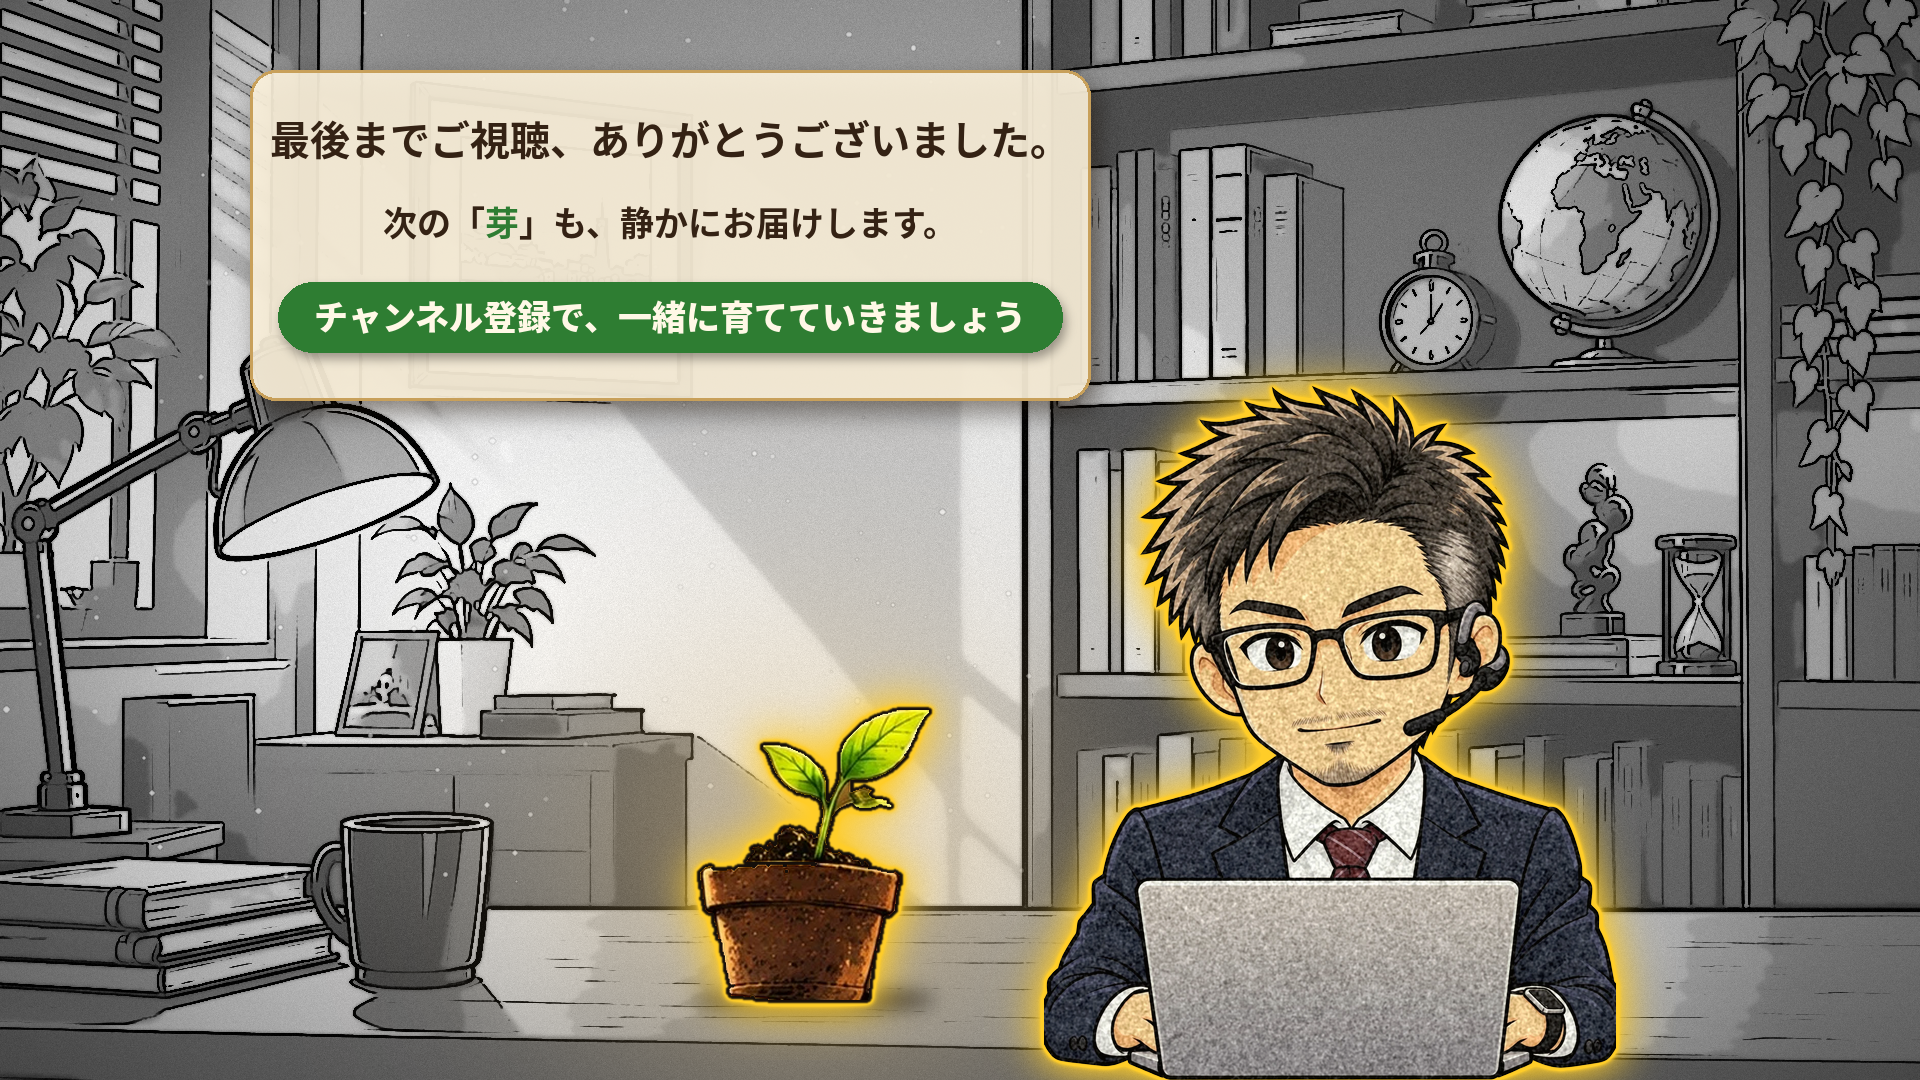
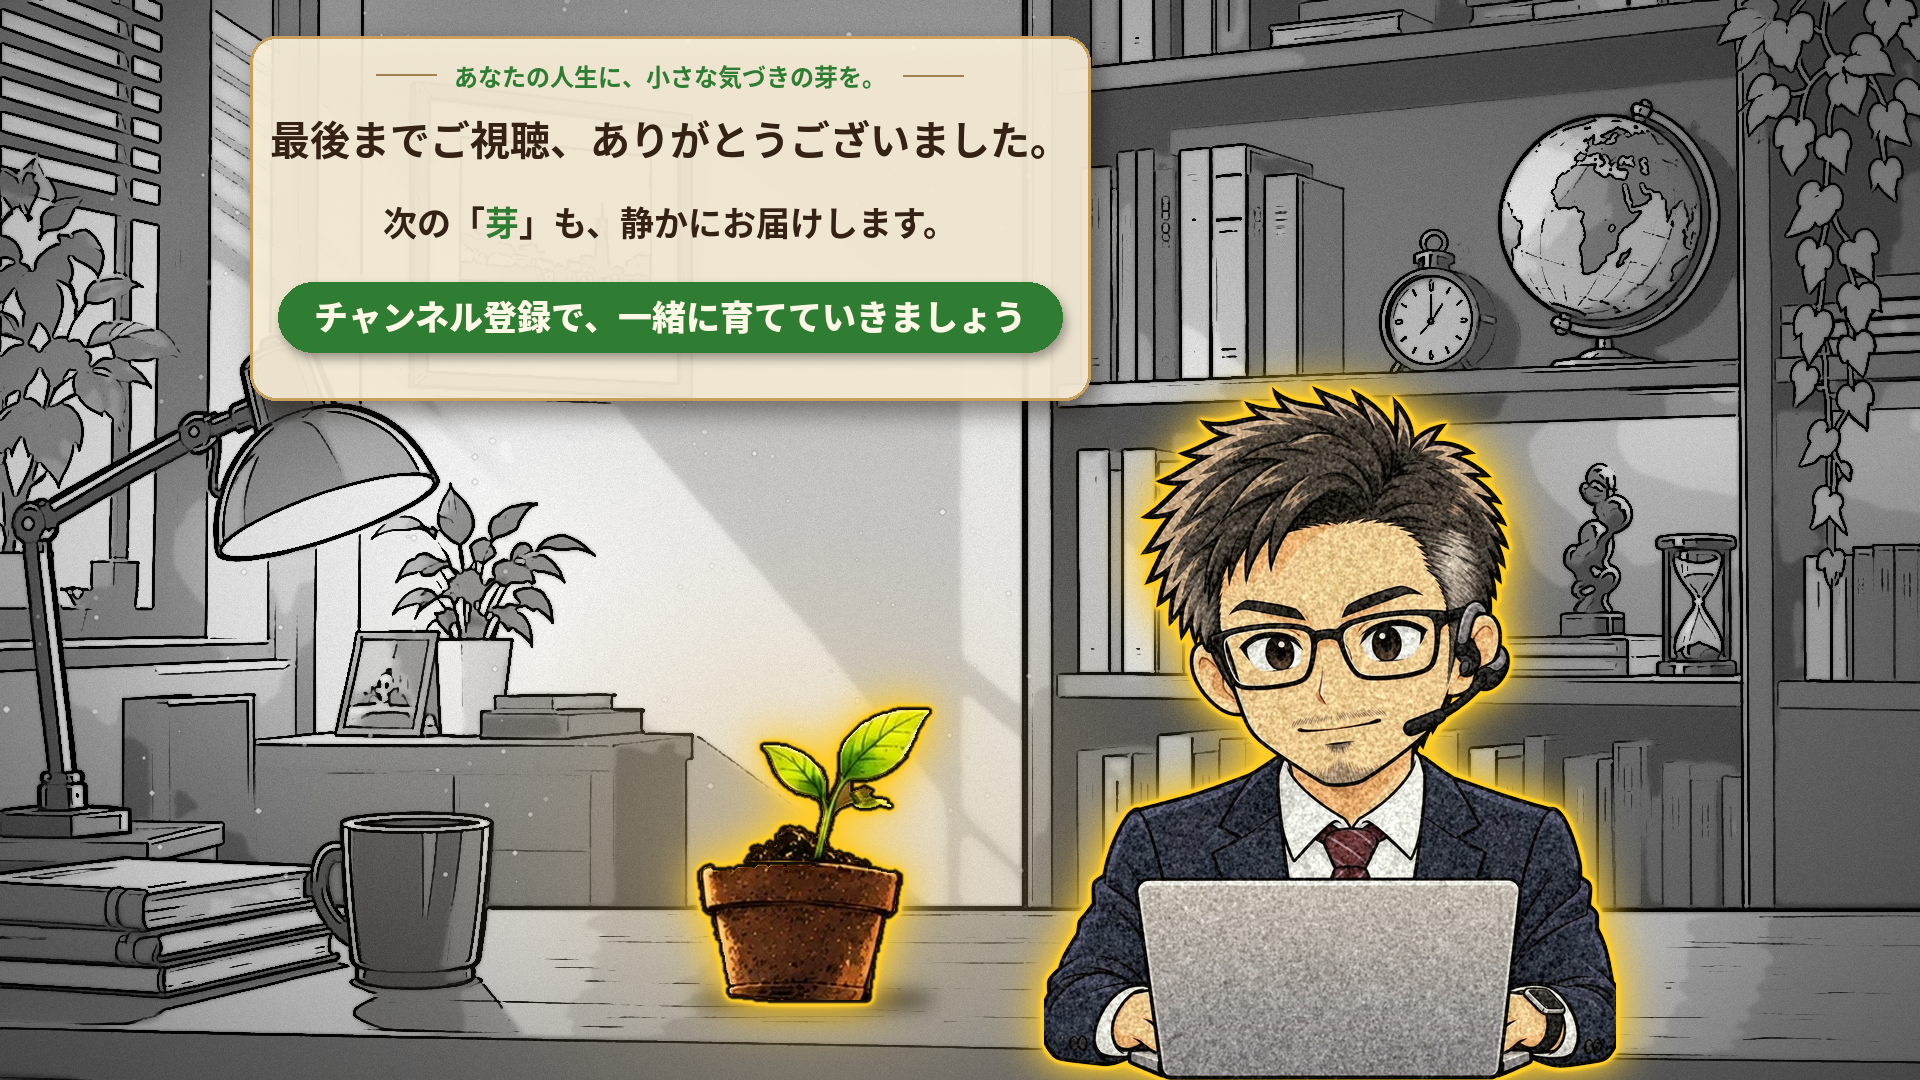
チャンネルテーマを決定し、冒頭テロップとENDに追加
- テーマ：あなたの人生に、小さな気づきの芽を。
- 冒頭テロップ（透過PNG）の生成スクリプトを追加
- ENDのパネル上にテーマを小さく追加

Claude-Session: https://claude.ai/code/session_013q6y1Wbgfz65LuLS3YWM2p

Changed region(s): [[0.125, 0.0306, 0.5938, 0.0917]]

diff --git a/company/design/make_telop.py b/company/design/make_telop.py
@@ -1,0 +1,97 @@
+"""冒頭テロップ（チャンネルのテーマ）生成（ルールは thumbnail-rules.md）
+
+使い方:
+  python3 make_telop.py 出力.png [プレビュー用の背景画像]
+
+出力は透過PNG（1920x1080）。動画編集ソフトで冒頭の映像に重ねる。
+背景画像を渡すと、重ねた見本（出力名_preview.png）も作る。
+"""
+import os
+import sys
+
+import cv2
+import numpy as np
+from PIL import Image, ImageDraw, ImageFilter, ImageFont
+
+D = os.path.dirname(os.path.abspath(__file__))
+FB = os.path.join(D, "assets", "NotoSansCJKjp-Bold.otf")
+W, H = 1920, 1080
+WHITE = (255, 255, 255)
+YELLOW = (255, 212, 0)
+GLOW = (255, 205, 40)
+
+# テーマ（「気づきの芽」を黄色で強調）
+PARTS = [("あなたの人生に、小さな", WHITE), ("気づきの芽", YELLOW), ("を。", WHITE)]
+
+
+def sprout_icon(h):
+    """芽の鉢から葉っぱ部分だけ切り出して、黄色の発光を付ける"""
+    pl = Image.open(os.path.join(D, "assets", "me_plant.png"))
+    pl = pl.crop(pl.getbbox())
+    leaf = pl.crop((0, 0, pl.width, int(pl.height * 0.44)))  # 葉っぱと茎だけ
+    arr = np.array(leaf)
+    y0 = int(arr.shape[0] * 0.7)  # 下のほうは緑っぽいところ（茎）だけ残して土を消す
+    low = arr[y0:]
+    low[..., 3] = np.where(low[..., 1] > low[..., 0], low[..., 3], 0)
+    leaf = Image.fromarray(arr)
+    leaf = leaf.crop(leaf.getbbox())
+    leaf = leaf.resize((round(leaf.width * h / leaf.height), h), Image.LANCZOS)
+    p = 40
+    big = Image.new("RGBA", (leaf.width + 2 * p, leaf.height + 2 * p), (0, 0, 0, 0))
+    big.paste(leaf, (p, p), leaf)
+    a = (np.array(big.split()[3]) > 128).astype(np.float32) * 255
+    ell = lambda n: cv2.getStructuringElement(cv2.MORPH_ELLIPSE, (n, n))
+    g = cv2.GaussianBlur(cv2.dilate(a, ell(9)), (0, 0), 12) * 1.3
+    out = Image.new("RGBA", big.size, GLOW + (255,))
+    out.putalpha(Image.fromarray(np.clip(g, 0, 255).astype(np.uint8)))
+    out.alpha_composite(big)
+    return out
+
+
+def make():
+    im = Image.new("RGBA", (W, H), (0, 0, 0, 0))
+    # 読みやすさ用の帯（上下がふわっと消える黒）
+    yy = np.arange(H, dtype=np.float32)
+    band = np.exp(-(((yy - 600) / 150) ** 2)) * 185
+    alpha = np.repeat(band[:, None], W, axis=1).astype(np.uint8)
+    b = Image.new("RGBA", (W, H), (0, 0, 0, 255))
+    b.putalpha(Image.fromarray(alpha))
+    im.alpha_composite(b)
+
+    icon = sprout_icon(150)
+    im.alpha_composite(icon, ((W - icon.width) // 2, 545 - icon.height + 40))
+
+    f = ImageFont.truetype(FB, 64)
+    d = ImageDraw.Draw(im)
+    w = sum(d.textlength(t, font=f) for t, _ in PARTS)
+    x, y = (W - w) / 2, 560
+    sh = Image.new("RGBA", (W, H), (0, 0, 0, 0))
+    sd = ImageDraw.Draw(sh)
+    sx = x
+    for t, _ in PARTS:
+        sd.text((sx + 3, y + 4), t, font=f, fill=(0, 0, 0, 200))
+        sx += d.textlength(t, font=f)
+    im.alpha_composite(sh.filter(ImageFilter.GaussianBlur(4)))
+    d = ImageDraw.Draw(im)
+    for t, c in PARTS:
+        d.text((x, y), t, font=f, fill=c)
+        x += d.textlength(t, font=f)
+    # 下の細い線
+    d.line(((W - w) / 2 + 40, y + 100, (W + w) / 2 - 40, y + 100), fill=(255, 230, 150, 200), width=2)
+    return im
+
+
+def main():
+    if len(sys.argv) < 2:
+        sys.exit(__doc__)
+    out = sys.argv[1]
+    im = make()
+    im.save(out)
+    if len(sys.argv) > 2:
+        bg = Image.open(sys.argv[2]).convert("RGBA").resize((W, H), Image.LANCZOS)
+        bg.alpha_composite(im)
+        bg.convert("RGB").save(os.path.splitext(out)[0] + "_preview.png")
+
+
+if __name__ == "__main__":
+    main()

diff --git a/company/design/make_endcard.py b/company/design/make_endcard.py
@@ -94,7 +94,7 @@ im.alpha_composite(s,(1330-s.width//2,H-s.height+p+4))
 d=ImageDraw.Draw(im)
 FB=os.path.join(D,'assets','NotoSansCJKjp-Bold.otf'); FK=os.path.join(D,'assets','NotoSansCJKjp-Black.otf')
 INK=(52,34,20); GREEN=(46,125,50); CREAM=(255,248,230)
-bx=(250,70,1090,400); cx=(bx[0]+bx[2])/2
+bx=(250,36,1090,400); cx=(bx[0]+bx[2])/2
 sh2=Image.new('RGBA',im.size,(0,0,0,0)); ImageDraw.Draw(sh2).rounded_rectangle((bx[0]+8,bx[1]+12,bx[2]+8,bx[3]+12),26,fill=(30,15,0,120))
 im.alpha_composite(sh2.filter(ImageFilter.GaussianBlur(12)))
 pn=Image.new('RGBA',im.size,(0,0,0,0)); ImageDraw.Draw(pn).rounded_rectangle(bx,26,fill=(252,242,220,232),outline=(200,160,90,255),width=3)
@@ -103,6 +103,12 @@ def ctxt(parts,font,y):
     w=sum(d.textlength(t,font=font) for t,_ in parts); x=cx-w/2
     for t,c in parts: d.text((x,y),t,font=font,fill=c); x+=d.textlength(t,font=font)
 f1=ImageFont.truetype(FB,40); f2=ImageFont.truetype(FB,34); f3=ImageFont.truetype(FK,34)
+THEME='あなたの人生に、小さな気づきの芽を。'
+ft=ImageFont.truetype(FB,24)
+tw=d.textlength(THEME,font=ft); ty=58
+ctxt([(THEME,GREEN)],ft,ty)
+for sgn in (-1,1):  # 両脇の細い線
+    x0=cx+sgn*(tw/2+18); d.line((x0,ty+17,x0+sgn*60,ty+17),fill=(160,130,80),width=2)
 ctxt([('最後までご視聴、ありがとうございました。',INK)],f1,108)
 ctxt([('次の「',INK),('芽',GREEN),('」も、静かにお届けします。',INK)],f2,196)
 t=sys.argv[3] if len(sys.argv)>3 else 'チャンネル登録で、一緒に育てていきましょう'

diff --git a/company/design/thumbnail-rules.md b/company/design/thumbnail-rules.md
@@ -36,10 +36,19 @@ python3 company/design/make_thumbnail.py 背景.png 出力.png "{y:人生}は、
 - **シン（正面）**：右側、本棚の前で机に向かう。素材：`assets/shin_front.webp`、フチは**黄色の発光**
 - **芽は必ず入れる**：芽の鉢植え（`assets/me_plant.png`、最初の絵のまま）を机の上、シンの左に置く。シンと同じ黒い輪郭線＋黄色の発光、スポットライトを当てる
 - **文字**：左上のクリーム色パネルに中央ぞろえ
+  - ―― あなたの人生に、小さな気づきの芽を。 ――（テーマ。小さく緑、両脇に細い線）
   - 最後までご視聴、ありがとうございました。（こげ茶）
   - 次の「芽」も、静かにお届けします。（こげ茶、「芽」だけ緑）
   - チャンネル登録で、一緒に育てていきましょう（緑のボタンに白文字）
 - 作り方：`python3 company/design/make_endcard.py 出力.png [背景画像]`
+
+## 冒頭テロップ（チャンネルのテーマ）
+- **テーマ：あなたの人生に、小さな気づきの芽を。**（2026-09-29 決定）
+- 毎回、動画の**冒頭**に出す
+- 白文字で、「気づきの芽」だけ黄色。上に芽のアイコン（黄色の発光）、下に細い線
+- 画面の真ん中あたり。後ろにふわっと消える黒い帯を敷いて、どんな映像の上でも読めるようにする
+- 素材：`telops/opening_theme.png`（透過PNG。動画編集ソフトで映像に重ねる）
+- 作り方：`python3 company/design/make_telop.py 出力.png [見本用の背景]`
 
 ## 作ったサムネ・END
 - `endcards/2026-09-29_end.png`：ENDカード（書斎・シン黄発光版）

diff --git a/company/secretary/ideas/channel-theme.md b/company/secretary/ideas/channel-theme.md
@@ -1,7 +1,7 @@
 # チャンネルのテーマ（キャッチコピー）
 
 ## 概要
-テロップに入れるチャンネルのテーマ。「あなたの人生に、気づき」の方向で検討中。
+テロップに入れるチャンネルのテーマ。**決定：あなたの人生に、小さな気づきの芽を。**（2026-09-29）
 
 ## 候補
 1. **あなたの人生に、小さな気づきの芽を。**（本命：シンボルの「芽」とつながる）
@@ -14,5 +14,5 @@
 - トーンは「静かにお届け」する落ち着いた感じ
 
 ## 次のアクション
-- [ ] コピーを1つに決める
-- [ ] 入れる場所を決める（動画のテロップ／ENDカード／サムネ）
+- [x] コピーを1つに決める → ①
+- [x] 入れる場所を決める → 動画の冒頭テロップ＋ENDカードのパネル上

diff --git a/CLAUDE.md b/CLAUDE.md
@@ -51,6 +51,7 @@
   - company/design/assets/ - シン・芽などの素材
   - company/design/endcards/ - 完成したENDカード
   - company/design/thumbnails/ - 完成したサムネ
+  - company/design/make_telop.py, telops/ - 冒頭テロップ（チャンネルのテーマ）
 
 ### 運用方針
 - ユーザーが思いついたこと・やることは秘書に投げる
